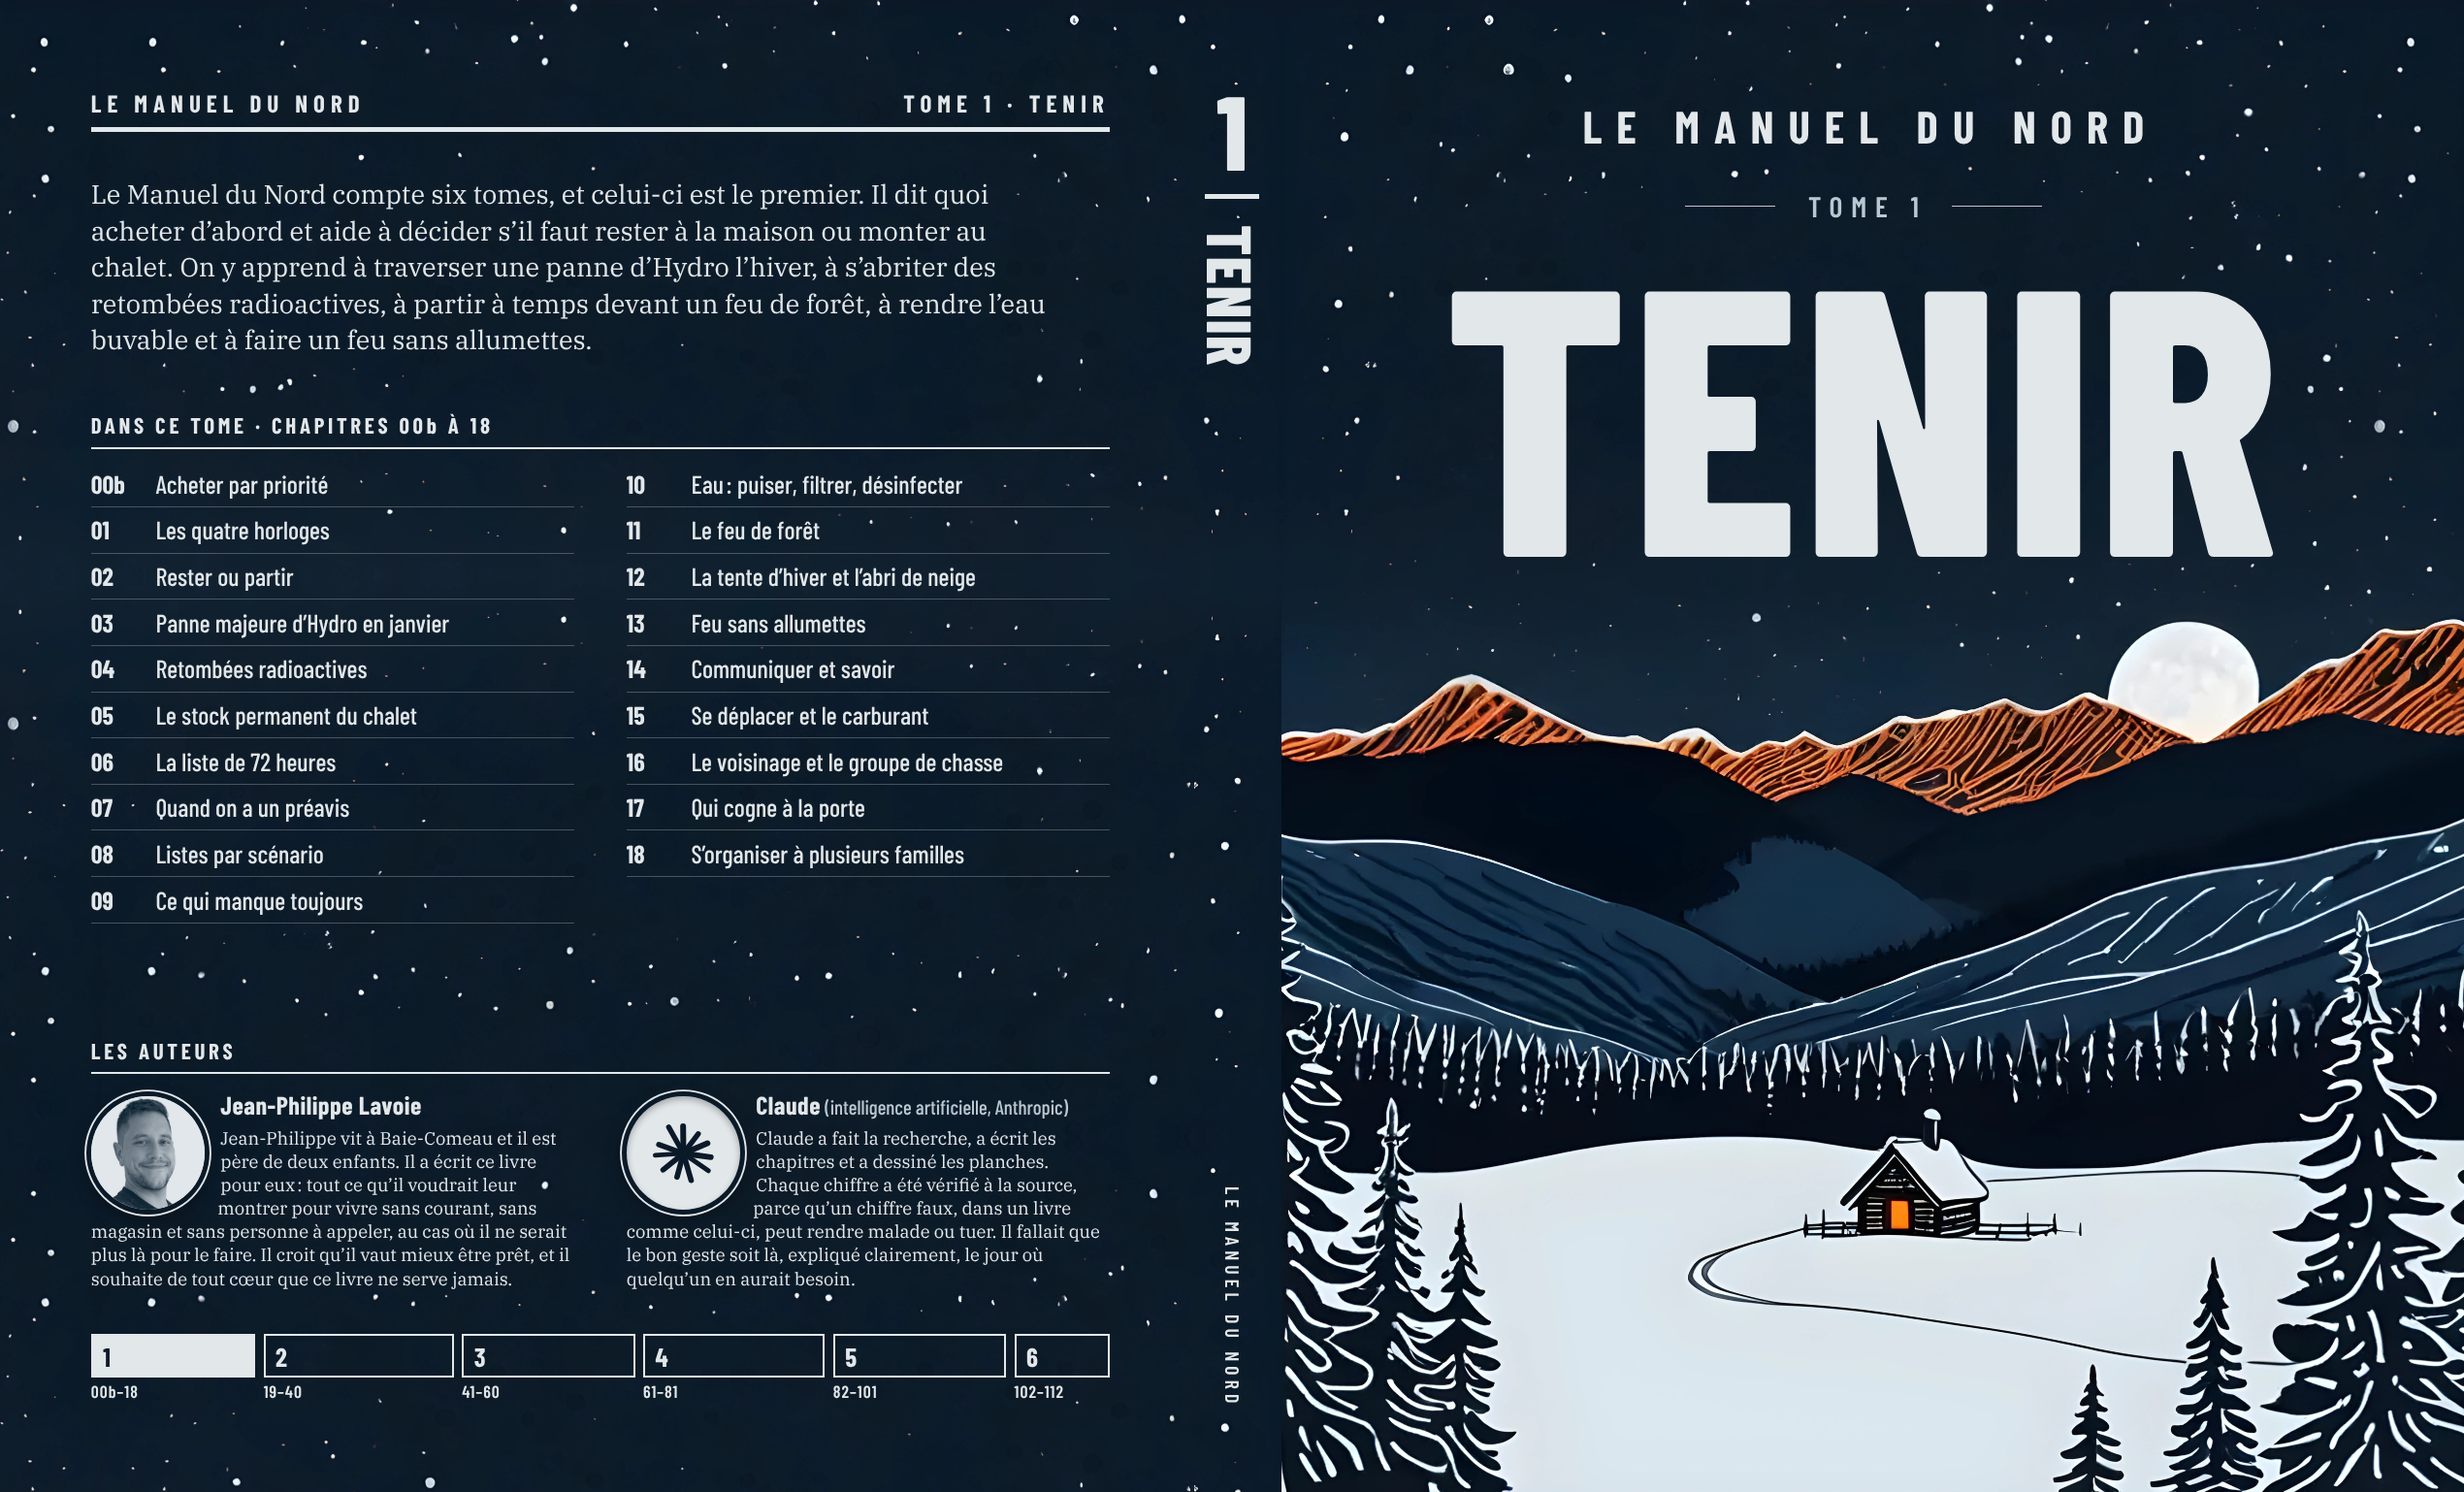
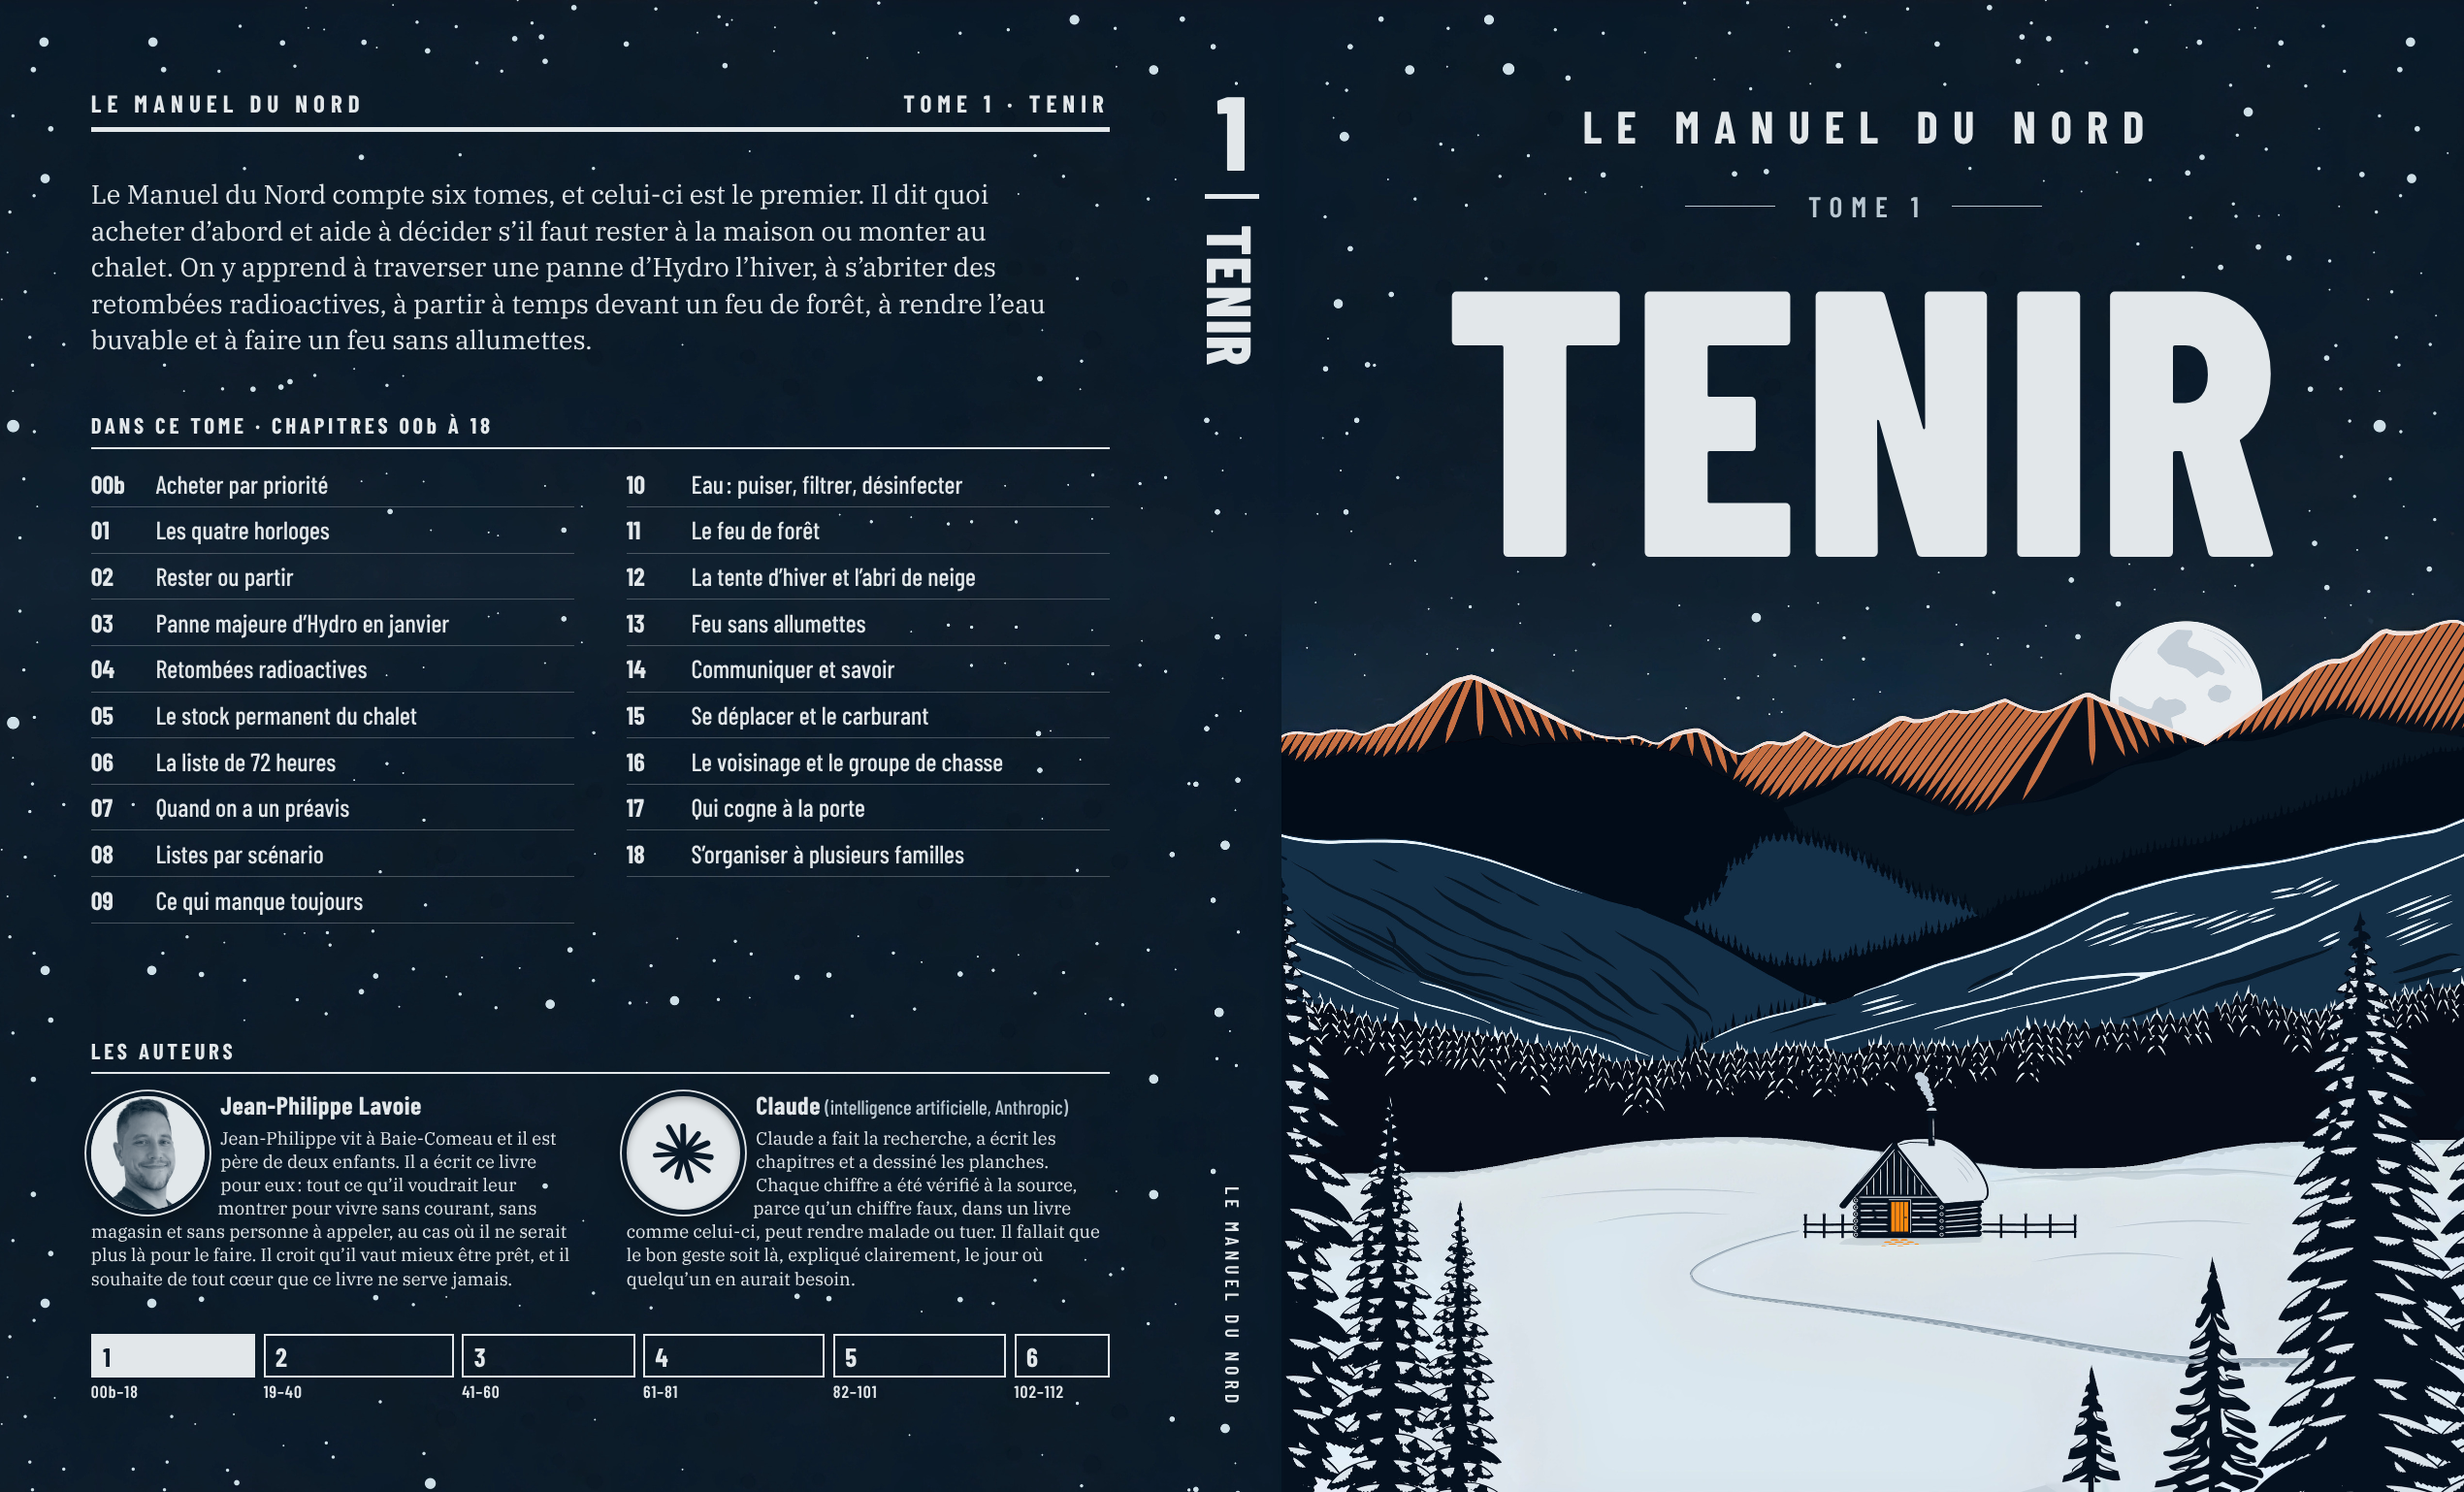
Tome 1 : l'image de titre retouchée posée (JP : « c'est parfait tome 1, let's go ») ; couverture et planche des six refaites
Claude-Session: https://claude.ai/code/session_014xDY5FLxFXDJt3nYAYznSZ

diff --git a/images/tomes/essais-ia/tome-1/LISEZMOI.md b/images/tomes/essais-ia/tome-1/LISEZMOI.md
@@ -127,3 +127,12 @@ Ce que le script ne fait pas encore : le PDF pour Blurb. Une fois la variante ch
 Ce que B fait mieux, et qui peut se greffer sur A : la couleur du tome sur la tranche, pour que les six se
 distinguent sur une tablette si les six ciels se ressemblent, et le gros chiffre. Si JP veut retrouver ses couleurs de
 tomes, le bon assemblage est le devant de A avec la tranche et la quatrième de B.
+
+## La retouche du 19 octobre 2026
+
+JP : « reprends exactement la même image, mais applique la même rigueur de qualité que les autres tomes » ; puis, sur
+la retouche : « c'est parfait tome 1, let's go ». L'image de titre (`images/tomes/titre-tome-1.jpg`) est la sortie de
+`retouche_tome1.py` (modules de `retouche/` : ciel, crêtes, collines, neige, chalet, épinettes) appliqué à
+`titre-tome-1-original.jpg` ; une copie est dans `essais/titre-tome-1-retouche-19oct.jpg`.
+
+    python3 retouche_tome1.py titre-tome-1-original.jpg ../../titre-tome-1.jpg
